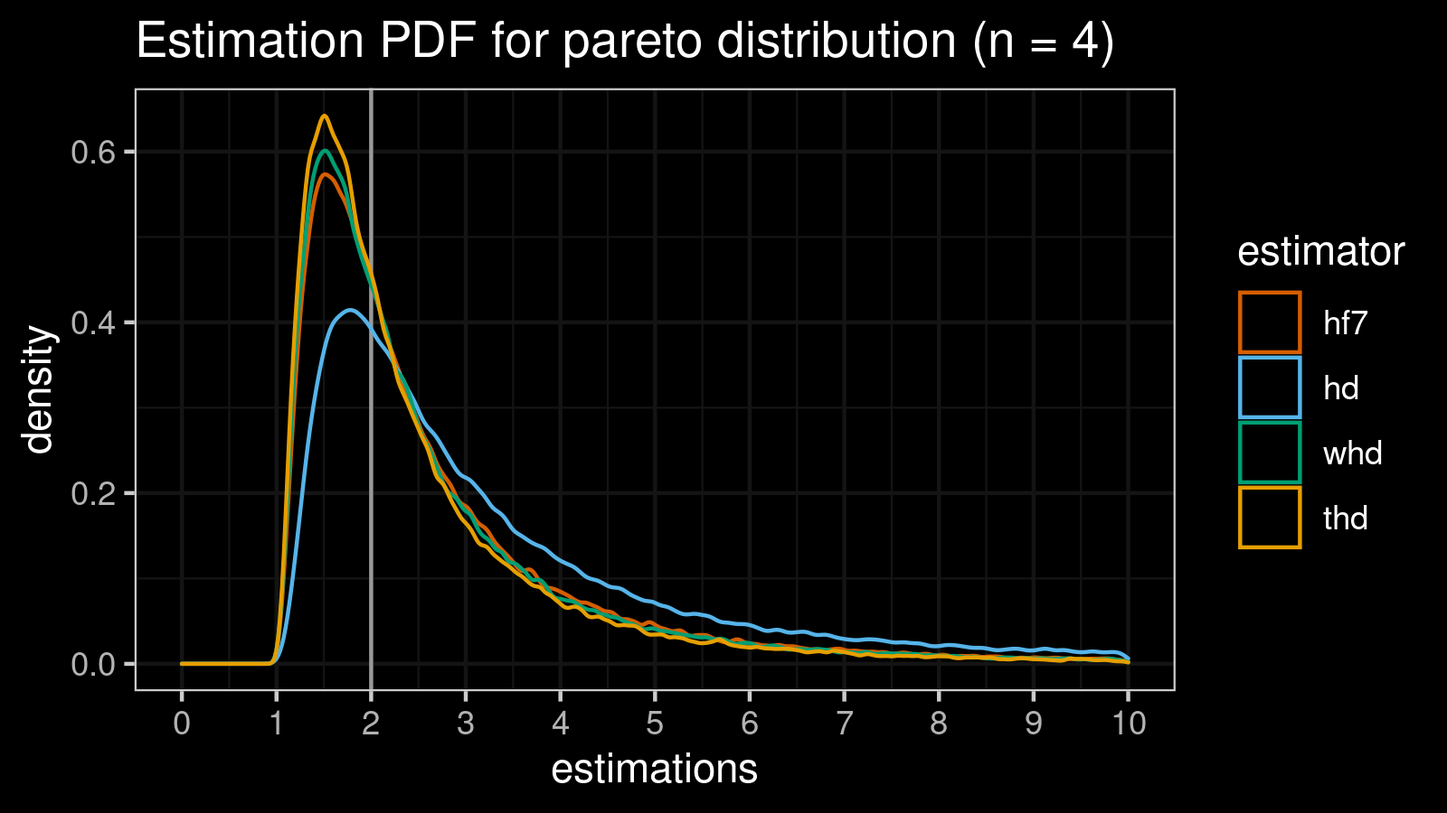
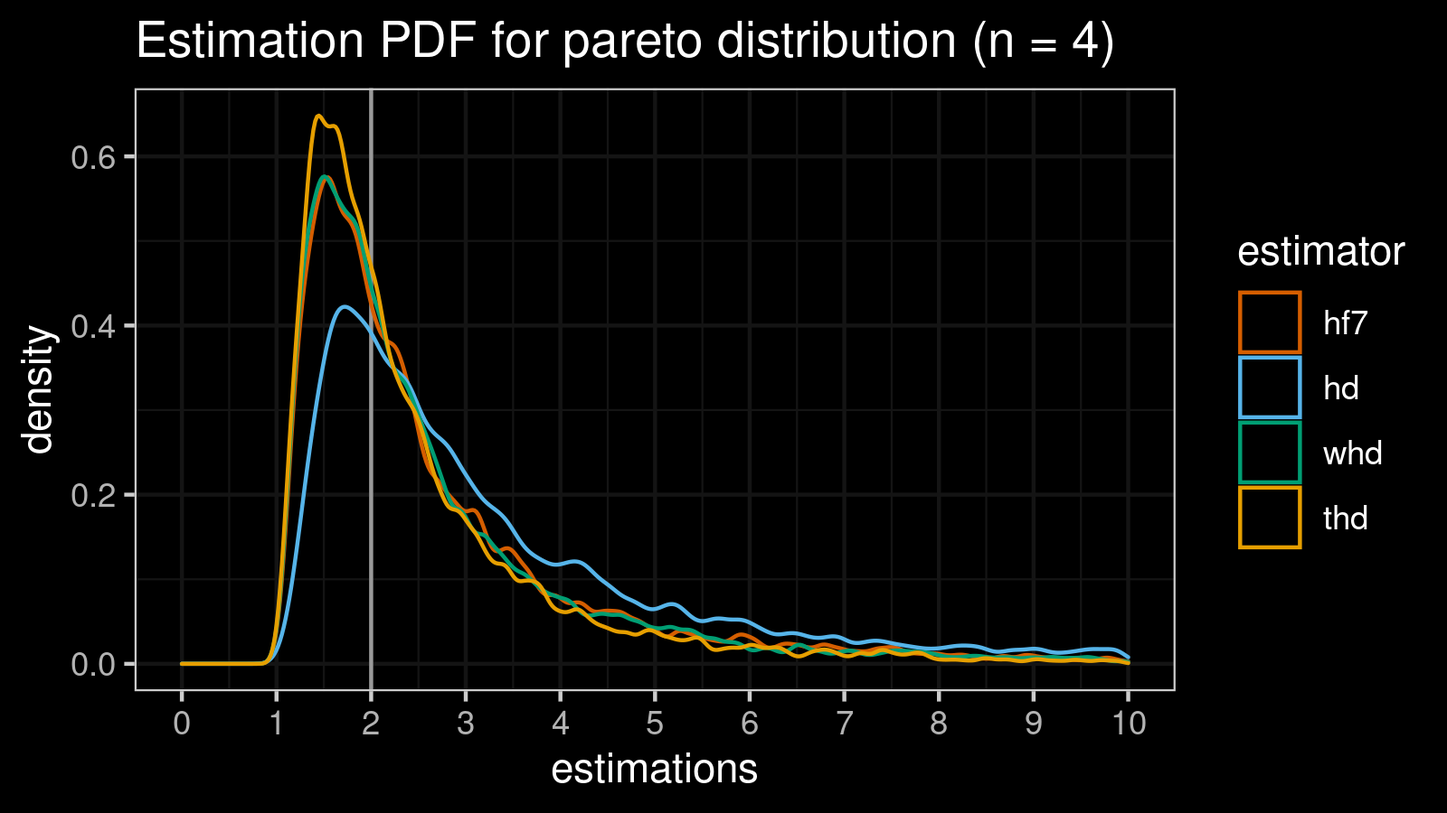
Deploying to gh-pages from  @ 09594990af768b3c2c02e1f2b73f5d6286e39294 🚀

diff --git a/posts/customized-wthdqe/index.html b/posts/customized-wthdqe/index.html
@@ -83,48 +83,49 @@ we also consider different percentiles of the absolute values of simulated error
 Also, we are going to draw the PDF of the error distributions.
 Each error distribution is based on 100'000 random samples.</p><p>In this simulation, we are going to estimate the median for the normal distribution (the true median value is <span class="math inline">\(0\)</span>)
 and for <span class="math inline">\(\textrm{Pareto}(x_m = 1, \alpha = 1)\)</span> (the true median value is <span class="math inline">\(2\)</span>).</p><h4 id=normal-distribution-n--5>Normal distribution (n = 5)</h4><p>Let&rsquo;s start with the normal distribution (which is symmetric and light-tailed) to do a dry-check of our estimators.</p><div class=row><div class=mx-auto><a href=/posts/customized-wthdqe/img/normal5-light.png target=_blank class=imgldlink alt=normal5><picture>
-<source theme=dark srcset=/posts/customized-wthdqe/img/normal5-dark.png media="(prefers-color-scheme: dark)"><source theme=light srcset=/posts/customized-wthdqe/img/normal5-light.png media="(prefers-color-scheme: light), (prefers-color-scheme: no-preference)"><img class="mx-auto d-block img-fluid" width=800 src=/posts/customized-wthdqe/img/normal5-light.png></picture></a></div></div><br><div class=highlight><pre class=chroma><code class=language-js data-lang=js> <span class=nx>estimator</span>   <span class=nx>bias</span>    <span class=nx>mse</span>    <span class=nx>p25</span>    <span class=nx>p50</span>    <span class=nx>p75</span>    <span class=nx>p90</span>    <span class=nx>p95</span>    <span class=nx>p99</span>
-       <span class=nx>hf7</span> <span class=mf>1.9989</span> <span class=mf>4.2806</span> <span class=mf>1.6406</span> <span class=mf>1.9986</span> <span class=mf>2.3571</span> <span class=mf>2.6808</span> <span class=mf>2.8774</span> <span class=mf>3.2498</span>
-        <span class=nx>hd</span> <span class=mf>1.9983</span> <span class=mf>4.2088</span> <span class=mf>1.6835</span> <span class=mf>2.0003</span> <span class=mf>2.3115</span> <span class=mf>2.5946</span> <span class=mf>2.7598</span> <span class=mf>3.0799</span>
-       <span class=nx>whd</span> <span class=mf>2.1971</span> <span class=mf>5.0761</span> <span class=mf>1.8597</span> <span class=mf>2.1935</span> <span class=mf>2.5307</span> <span class=mf>2.8371</span> <span class=mf>3.0237</span> <span class=mf>3.3723</span>
-       <span class=nx>thd</span> <span class=mf>2.2851</span> <span class=mf>5.4642</span> <span class=mf>1.9532</span> <span class=mf>2.2805</span> <span class=mf>2.6133</span> <span class=mf>2.9198</span> <span class=mf>3.1023</span> <span class=mf>3.4480</span>
-</code></pre></div><p>As we can see, <code>hf7</code> and <code>hd</code> give pretty similar results.
+<source theme=dark srcset=/posts/customized-wthdqe/img/normal5-dark.png media="(prefers-color-scheme: dark)"><source theme=light srcset=/posts/customized-wthdqe/img/normal5-light.png media="(prefers-color-scheme: light), (prefers-color-scheme: no-preference)"><img class="mx-auto d-block img-fluid" width=800 src=/posts/customized-wthdqe/img/normal5-light.png></picture></a></div></div><br><div class=highlight><pre class=chroma><code class=language-js data-lang=js> <span class=nx>estimator</span>       <span class=nx>bias</span>     <span class=nx>mse</span>     <span class=nx>p25</span>     <span class=nx>p50</span>     <span class=nx>p75</span>     <span class=nx>p90</span>     <span class=nx>p95</span>    <span class=nx>p99</span>
+       <span class=nx>hf7</span> <span class=o>-</span><span class=mf>0.0016329</span> <span class=mf>0.29153</span> <span class=mf>0.16804</span> <span class=mf>0.36103</span> <span class=mf>0.61964</span> <span class=mf>0.89926</span> <span class=mf>1.06836</span> <span class=mf>1.3611</span>
+        <span class=nx>hd</span> <span class=o>-</span><span class=mf>0.0056730</span> <span class=mf>0.21042</span> <span class=mf>0.14671</span> <span class=mf>0.31081</span> <span class=mf>0.52609</span> <span class=mf>0.74722</span> <span class=mf>0.89905</span> <span class=mf>1.1936</span>
+       <span class=nx>whd</span> <span class=o>-</span><span class=mf>0.1920940</span> <span class=mf>0.28335</span> <span class=mf>0.17178</span> <span class=mf>0.36076</span> <span class=mf>0.60780</span> <span class=mf>0.87269</span> <span class=mf>1.04119</span> <span class=mf>1.3885</span>
+       <span class=nx>thd</span> <span class=o>-</span><span class=mf>0.2879419</span> <span class=mf>0.32841</span> <span class=mf>0.18283</span> <span class=mf>0.38710</span> <span class=mf>0.65326</span> <span class=mf>0.94229</span> <span class=mf>1.14017</span> <span class=mf>1.4771</span>
+</code></pre></div><p>TODO: rewrite
+As we can see, <code>hf7</code> and <code>hd</code> give pretty similar results.
 In this particular case, <code>whd</code> and <code>thd</code> give worse results (but they are still pretty acceptable)
 It&rsquo;s an expected situation because our winsorizing/trimming strategy is &ldquo;overfitted&rdquo; to the right-skewed case
 while the actual distribution is symmetric.</p><h4 id=pareto-distribution-n--3>Pareto distribution (n = 3)</h4><p>Now it&rsquo;s time to check our estimators on the most complicated case:
 we should guess the median value of <span class="math inline">\(\textrm{Pareto}(x_m = 1, \alpha = 1)\)</span>
 based only on three elements!</p><div class=row><div class=mx-auto><a href=/posts/customized-wthdqe/img/pareto3-light.png target=_blank class=imgldlink alt=pareto3><picture>
-<source theme=dark srcset=/posts/customized-wthdqe/img/pareto3-dark.png media="(prefers-color-scheme: dark)"><source theme=light srcset=/posts/customized-wthdqe/img/pareto3-light.png media="(prefers-color-scheme: light), (prefers-color-scheme: no-preference)"><img class="mx-auto d-block img-fluid" width=800 src=/posts/customized-wthdqe/img/pareto3-light.png></picture></a></div></div><br><div class=highlight><pre class=chroma><code class=language-js data-lang=js> <span class=nx>estimator</span>   <span class=nx>bias</span>       <span class=nx>mse</span>     <span class=nx>p25</span>     <span class=nx>p50</span>     <span class=nx>p75</span>    <span class=nx>p90</span>     <span class=nx>p95</span>    <span class=nx>p99</span>
-       <span class=nx>hf7</span> <span class=mf>1.5123</span>    <span class=mf>62.215</span> <span class=mf>0.32717</span> <span class=mf>0.63312</span> <span class=mf>1.06588</span> <span class=mf>3.1005</span>  <span class=mf>5.3714</span> <span class=mf>15.368</span>
-        <span class=nx>hd</span> <span class=mf>8.9820</span> <span class=mf>53457.769</span> <span class=mf>0.37791</span> <span class=mf>0.82852</span> <span class=mf>2.94861</span> <span class=mf>8.5900</span> <span class=mf>17.2297</span> <span class=mf>82.489</span>
-       <span class=nx>whd</span> <span class=mf>1.1791</span>    <span class=mf>13.033</span> <span class=mf>0.32245</span> <span class=mf>0.61093</span> <span class=mf>0.89666</span> <span class=mf>2.2888</span>  <span class=mf>3.9940</span> <span class=mf>11.355</span>
-       <span class=nx>thd</span> <span class=mf>1.0959</span>    <span class=mf>10.468</span> <span class=mf>0.32505</span> <span class=mf>0.60616</span> <span class=mf>0.87402</span> <span class=mf>2.0557</span>  <span class=mf>3.6763</span> <span class=mf>10.116</span>
+<source theme=dark srcset=/posts/customized-wthdqe/img/pareto3-dark.png media="(prefers-color-scheme: dark)"><source theme=light srcset=/posts/customized-wthdqe/img/pareto3-light.png media="(prefers-color-scheme: light), (prefers-color-scheme: no-preference)"><img class="mx-auto d-block img-fluid" width=800 src=/posts/customized-wthdqe/img/pareto3-light.png></picture></a></div></div><br><div class=highlight><pre class=chroma><code class=language-js data-lang=js> <span class=nx>estimator</span>     <span class=nx>bias</span>        <span class=nx>mse</span>     <span class=nx>p25</span>     <span class=nx>p50</span>     <span class=nx>p75</span>    <span class=nx>p90</span>     <span class=nx>p95</span>    <span class=nx>p99</span>
+       <span class=nx>hf7</span>  <span class=mf>0.96402</span>     <span class=mf>14.093</span> <span class=mf>0.33215</span> <span class=mf>0.63298</span> <span class=mf>1.09961</span> <span class=mf>3.1286</span>  <span class=mf>5.4061</span> <span class=mf>15.677</span>
+        <span class=nx>hd</span> <span class=mf>12.75015</span> <span class=mf>175467.942</span> <span class=mf>0.37914</span> <span class=mf>0.84069</span> <span class=mf>3.02464</span> <span class=mf>8.9115</span> <span class=mf>18.5175</span> <span class=mf>90.129</span>
+       <span class=nx>whd</span>  <span class=mf>0.62981</span>     <span class=mf>14.147</span> <span class=mf>0.32802</span> <span class=mf>0.61526</span> <span class=mf>0.89961</span> <span class=mf>2.4955</span>  <span class=mf>4.2395</span> <span class=mf>11.140</span>
+       <span class=nx>thd</span>  <span class=mf>0.48012</span>     <span class=mf>23.503</span> <span class=mf>0.33245</span> <span class=mf>0.61360</span> <span class=mf>0.88120</span> <span class=mf>1.9543</span>  <span class=mf>3.4305</span>  <span class=mf>9.819</span>
 </code></pre></div><p>Expectedly, <code>hd</code> has the worst error values because of its zero breakdown point.
 Meanwhile, <code>whd</code> and <code>thd</code> have better error values than <code>hf7</code> (which is our baseline).
 They are better not only based on the &ldquo;classic&rdquo; <code>bias</code> and <code>mse</code> metrics but only based on all the percentile values.</p><p>Let&rsquo;s see what happens for higher <span class="math inline">\(n\)</span> values.</p><h4 id=pareto-distribution-n--4>Pareto distribution (n = 4)</h4><div class=row><div class=mx-auto><a href=/posts/customized-wthdqe/img/pareto4-light.png target=_blank class=imgldlink alt=pareto4><picture>
-<source theme=dark srcset=/posts/customized-wthdqe/img/pareto4-dark.png media="(prefers-color-scheme: dark)"><source theme=light srcset=/posts/customized-wthdqe/img/pareto4-light.png media="(prefers-color-scheme: light), (prefers-color-scheme: no-preference)"><img class="mx-auto d-block img-fluid" width=800 src=/posts/customized-wthdqe/img/pareto4-light.png></picture></a></div></div><br><div class=highlight><pre class=chroma><code class=language-js data-lang=js> <span class=nx>estimator</span>   <span class=nx>bias</span>        <span class=nx>mse</span>     <span class=nx>p25</span>     <span class=nx>p50</span>    <span class=nx>p75</span>    <span class=nx>p90</span>     <span class=nx>p95</span>    <span class=nx>p99</span>
-       <span class=nx>hf7</span> <span class=mf>1.3685</span>     <span class=mf>17.729</span> <span class=mf>0.28709</span> <span class=mf>0.58347</span> <span class=mf>1.2009</span> <span class=mf>3.0084</span>  <span class=mf>4.9603</span> <span class=mf>12.553</span>
-        <span class=nx>hd</span> <span class=mf>8.9832</span> <span class=mf>341193.607</span> <span class=mf>0.35421</span> <span class=mf>0.82811</span> <span class=mf>2.6347</span> <span class=mf>6.9242</span> <span class=mf>13.0648</span> <span class=mf>55.666</span>
-       <span class=nx>whd</span> <span class=mf>1.3481</span>     <span class=mf>75.375</span> <span class=mf>0.28768</span> <span class=mf>0.57450</span> <span class=mf>1.1052</span> <span class=mf>2.8478</span>  <span class=mf>4.7321</span> <span class=mf>12.135</span>
-       <span class=nx>thd</span> <span class=mf>1.2203</span>    <span class=mf>159.813</span> <span class=mf>0.27968</span> <span class=mf>0.55621</span> <span class=mf>0.9480</span> <span class=mf>2.5127</span>  <span class=mf>4.1917</span> <span class=mf>10.584</span>
+<source theme=dark srcset=/posts/customized-wthdqe/img/pareto4-dark.png media="(prefers-color-scheme: dark)"><source theme=light srcset=/posts/customized-wthdqe/img/pareto4-light.png media="(prefers-color-scheme: light), (prefers-color-scheme: no-preference)"><img class="mx-auto d-block img-fluid" width=800 src=/posts/customized-wthdqe/img/pareto4-light.png></picture></a></div></div><br><div class=highlight><pre class=chroma><code class=language-js data-lang=js> <span class=nx>estimator</span>    <span class=nx>bias</span>      <span class=nx>mse</span>     <span class=nx>p25</span>     <span class=nx>p50</span>     <span class=nx>p75</span>    <span class=nx>p90</span>     <span class=nx>p95</span>    <span class=nx>p99</span>
+       <span class=nx>hf7</span> <span class=mf>0.99630</span>   <span class=mf>13.376</span> <span class=mf>0.28927</span> <span class=mf>0.58443</span> <span class=mf>1.22370</span> <span class=mf>3.1813</span>  <span class=mf>5.1862</span> <span class=mf>12.015</span>
+        <span class=nx>hd</span> <span class=mf>4.33302</span> <span class=mf>1376.949</span> <span class=mf>0.35408</span> <span class=mf>0.81399</span> <span class=mf>2.56402</span> <span class=mf>6.8722</span> <span class=mf>12.2750</span> <span class=mf>53.703</span>
+       <span class=nx>whd</span> <span class=mf>0.95874</span>   <span class=mf>25.060</span> <span class=mf>0.28729</span> <span class=mf>0.57546</span> <span class=mf>1.12468</span> <span class=mf>2.9193</span>  <span class=mf>4.8311</span> <span class=mf>12.190</span>
+       <span class=nx>thd</span> <span class=mf>0.72518</span>   <span class=mf>11.554</span> <span class=mf>0.27726</span> <span class=mf>0.54553</span> <span class=mf>0.91749</span> <span class=mf>2.3926</span>  <span class=mf>4.0997</span> <span class=mf>10.723</span>
 </code></pre></div><h4 id=pareto-distribution-n--5>Pareto distribution (n = 5)</h4><div class=row><div class=mx-auto><a href=/posts/customized-wthdqe/img/pareto5-light.png target=_blank class=imgldlink alt=pareto5><picture>
-<source theme=dark srcset=/posts/customized-wthdqe/img/pareto5-dark.png media="(prefers-color-scheme: dark)"><source theme=light srcset=/posts/customized-wthdqe/img/pareto5-light.png media="(prefers-color-scheme: light), (prefers-color-scheme: no-preference)"><img class="mx-auto d-block img-fluid" width=800 src=/posts/customized-wthdqe/img/pareto5-light.png></picture></a></div></div><br><div class=highlight><pre class=chroma><code class=language-js data-lang=js> <span class=nx>estimator</span>    <span class=nx>bias</span>        <span class=nx>mse</span>     <span class=nx>p25</span>     <span class=nx>p50</span>     <span class=nx>p75</span>    <span class=nx>p90</span>    <span class=nx>p95</span>     <span class=nx>p99</span>
-       <span class=nx>hf7</span> <span class=mf>0.93476</span> <span class=mf>3.6081e+00</span> <span class=mf>0.26418</span> <span class=mf>0.52748</span> <span class=mf>0.85761</span> <span class=mf>2.0465</span> <span class=mf>3.2767</span>  <span class=mf>7.5615</span>
-        <span class=nx>hd</span> <span class=mf>6.89114</span> <span class=mf>9.5374e+05</span> <span class=mf>0.32004</span> <span class=mf>0.74949</span> <span class=mf>2.20399</span> <span class=mf>5.3076</span> <span class=mf>9.3283</span> <span class=mf>34.6076</span>
-       <span class=nx>whd</span> <span class=mf>0.75266</span> <span class=mf>1.9533e+00</span> <span class=mf>0.26330</span> <span class=mf>0.51288</span> <span class=mf>0.77389</span> <span class=mf>1.4601</span> <span class=mf>2.3995</span>  <span class=mf>5.3516</span>
-       <span class=nx>thd</span> <span class=mf>0.67432</span> <span class=mf>1.3032e+00</span> <span class=mf>0.26495</span> <span class=mf>0.50669</span> <span class=mf>0.75081</span> <span class=mf>1.1632</span> <span class=mf>1.9720</span>  <span class=mf>4.4307</span>
+<source theme=dark srcset=/posts/customized-wthdqe/img/pareto5-dark.png media="(prefers-color-scheme: dark)"><source theme=light srcset=/posts/customized-wthdqe/img/pareto5-light.png media="(prefers-color-scheme: light), (prefers-color-scheme: no-preference)"><img class="mx-auto d-block img-fluid" width=800 src=/posts/customized-wthdqe/img/pareto5-light.png></picture></a></div></div><br><div class=highlight><pre class=chroma><code class=language-js data-lang=js> <span class=nx>estimator</span>     <span class=nx>bias</span>        <span class=nx>mse</span>     <span class=nx>p25</span>     <span class=nx>p50</span>     <span class=nx>p75</span>    <span class=nx>p90</span>    <span class=nx>p95</span>     <span class=nx>p99</span>
+       <span class=nx>hf7</span> <span class=mf>0.504146</span>     <span class=mf>5.2105</span> <span class=mf>0.26675</span> <span class=mf>0.52613</span> <span class=mf>0.87303</span> <span class=mf>2.1065</span> <span class=mf>3.3679</span>  <span class=mf>7.2826</span>
+        <span class=nx>hd</span> <span class=mf>4.396743</span> <span class=mf>22596.2795</span> <span class=mf>0.31288</span> <span class=mf>0.74502</span> <span class=mf>2.24599</span> <span class=mf>5.3275</span> <span class=mf>9.3600</span> <span class=mf>34.9101</span>
+       <span class=nx>whd</span> <span class=mf>0.231205</span>     <span class=mf>2.1152</span> <span class=mf>0.26279</span> <span class=mf>0.50793</span> <span class=mf>0.77450</span> <span class=mf>1.4745</span> <span class=mf>2.4296</span>  <span class=mf>5.8547</span>
+       <span class=nx>thd</span> <span class=mf>0.067092</span>     <span class=mf>1.6300</span> <span class=mf>0.26268</span> <span class=mf>0.50467</span> <span class=mf>0.74328</span> <span class=mf>1.1175</span> <span class=mf>1.9506</span>  <span class=mf>4.6478</span>
 </code></pre></div><h4 id=pareto-distribution-n--6>Pareto distribution (n = 6)</h4><div class=row><div class=mx-auto><a href=/posts/customized-wthdqe/img/pareto6-light.png target=_blank class=imgldlink alt=pareto6><picture>
 <source theme=dark srcset=/posts/customized-wthdqe/img/pareto6-dark.png media="(prefers-color-scheme: dark)"><source theme=light srcset=/posts/customized-wthdqe/img/pareto6-light.png media="(prefers-color-scheme: light), (prefers-color-scheme: no-preference)"><img class="mx-auto d-block img-fluid" width=800 src=/posts/customized-wthdqe/img/pareto6-light.png></picture></a></div></div><br><div class=highlight><pre class=chroma><code class=language-js data-lang=js> <span class=nx>estimator</span>    <span class=nx>bias</span>       <span class=nx>mse</span>     <span class=nx>p25</span>     <span class=nx>p50</span>     <span class=nx>p75</span>    <span class=nx>p90</span>    <span class=nx>p95</span>     <span class=nx>p99</span>
-       <span class=nx>hf7</span> <span class=mf>0.86396</span>    <span class=mf>3.1662</span> <span class=mf>0.24138</span> <span class=mf>0.49037</span> <span class=mf>0.84813</span> <span class=mf>1.9343</span> <span class=mf>3.0090</span>  <span class=mf>6.4052</span>
-        <span class=nx>hd</span> <span class=mf>2.45124</span> <span class=mf>1146.6008</span> <span class=mf>0.29475</span> <span class=mf>0.67508</span> <span class=mf>1.83344</span> <span class=mf>4.1168</span> <span class=mf>6.7717</span> <span class=mf>21.5434</span>
-       <span class=nx>whd</span> <span class=mf>0.80034</span>    <span class=mf>2.5351</span> <span class=mf>0.23669</span> <span class=mf>0.47788</span> <span class=mf>0.78792</span> <span class=mf>1.7473</span> <span class=mf>2.7498</span>  <span class=mf>5.8945</span>
-       <span class=nx>thd</span> <span class=mf>0.70381</span>    <span class=mf>1.6713</span> <span class=mf>0.23367</span> <span class=mf>0.46480</span> <span class=mf>0.73381</span> <span class=mf>1.4345</span> <span class=mf>2.2906</span>  <span class=mf>4.9982</span>
+       <span class=nx>hf7</span> <span class=mf>0.51371</span>    <span class=mf>2.5938</span> <span class=mf>0.23690</span> <span class=mf>0.48757</span> <span class=mf>0.86252</span> <span class=mf>2.0152</span> <span class=mf>3.0778</span>  <span class=mf>6.4690</span>
+        <span class=nx>hd</span> <span class=mf>2.46898</span> <span class=mf>1195.1400</span> <span class=mf>0.29120</span> <span class=mf>0.66492</span> <span class=mf>1.78711</span> <span class=mf>4.0332</span> <span class=mf>6.8272</span> <span class=mf>20.9587</span>
+       <span class=nx>whd</span> <span class=mf>0.42000</span>    <span class=mf>2.5518</span> <span class=mf>0.23282</span> <span class=mf>0.47884</span> <span class=mf>0.79029</span> <span class=mf>1.7981</span> <span class=mf>2.8478</span>  <span class=mf>6.0907</span>
+       <span class=nx>thd</span> <span class=mf>0.25985</span>    <span class=mf>1.4532</span> <span class=mf>0.23638</span> <span class=mf>0.46981</span> <span class=mf>0.74189</span> <span class=mf>1.4778</span> <span class=mf>2.3190</span>  <span class=mf>4.9017</span>
 </code></pre></div><h4 id=pareto-distribution-n--7>Pareto distribution (n = 7)</h4><div class=row><div class=mx-auto><a href=/posts/customized-wthdqe/img/pareto7-light.png target=_blank class=imgldlink alt=pareto7><picture>
-<source theme=dark srcset=/posts/customized-wthdqe/img/pareto7-dark.png media="(prefers-color-scheme: dark)"><source theme=light srcset=/posts/customized-wthdqe/img/pareto7-light.png media="(prefers-color-scheme: light), (prefers-color-scheme: no-preference)"><img class="mx-auto d-block img-fluid" width=800 src=/posts/customized-wthdqe/img/pareto7-light.png></picture></a></div></div><br><div class=highlight><pre class=chroma><code class=language-js data-lang=js> <span class=nx>estimator</span>    <span class=nx>bias</span>        <span class=nx>mse</span>     <span class=nx>p25</span>     <span class=nx>p50</span>     <span class=nx>p75</span>     <span class=nx>p90</span>    <span class=nx>p95</span>     <span class=nx>p99</span>
-       <span class=nx>hf7</span> <span class=mf>0.72789</span> <span class=mf>1.7341e+00</span> <span class=mf>0.22666</span> <span class=mf>0.46096</span> <span class=mf>0.75719</span> <span class=mf>1.58315</span> <span class=mf>2.4422</span>  <span class=mf>5.0349</span>
-        <span class=nx>hd</span> <span class=mf>3.81677</span> <span class=mf>4.7061e+05</span> <span class=mf>0.25941</span> <span class=mf>0.58495</span> <span class=mf>1.49718</span> <span class=mf>3.19833</span> <span class=mf>4.9741</span> <span class=mf>12.9881</span>
-       <span class=nx>whd</span> <span class=mf>0.59597</span> <span class=mf>9.2458e-01</span> <span class=mf>0.22620</span> <span class=mf>0.44712</span> <span class=mf>0.68831</span> <span class=mf>1.09442</span> <span class=mf>1.7404</span>  <span class=mf>3.6767</span>
-       <span class=nx>thd</span> <span class=mf>0.54333</span> <span class=mf>6.5777e-01</span> <span class=mf>0.23242</span> <span class=mf>0.44939</span> <span class=mf>0.67056</span> <span class=mf>0.88692</span> <span class=mf>1.3906</span>  <span class=mf>2.9339</span>
+<source theme=dark srcset=/posts/customized-wthdqe/img/pareto7-dark.png media="(prefers-color-scheme: dark)"><source theme=light srcset=/posts/customized-wthdqe/img/pareto7-light.png media="(prefers-color-scheme: light), (prefers-color-scheme: no-preference)"><img class="mx-auto d-block img-fluid" width=800 src=/posts/customized-wthdqe/img/pareto7-light.png></picture></a></div></div><br><div class=highlight><pre class=chroma><code class=language-js data-lang=js> <span class=nx>estimator</span>      <span class=nx>bias</span>        <span class=nx>mse</span>     <span class=nx>p25</span>     <span class=nx>p50</span>     <span class=nx>p75</span>    <span class=nx>p90</span>    <span class=nx>p95</span>     <span class=nx>p99</span>
+       <span class=nx>hf7</span>  <span class=mf>0.337121</span>    <span class=mf>1.85904</span> <span class=mf>0.23519</span> <span class=mf>0.46158</span> <span class=mf>0.75627</span> <span class=mf>1.5838</span> <span class=mf>2.4504</span>  <span class=mf>5.3569</span>
+        <span class=nx>hd</span>  <span class=mf>1.975857</span> <span class=mf>1989.76770</span> <span class=mf>0.26722</span> <span class=mf>0.60452</span> <span class=mf>1.52104</span> <span class=mf>3.2602</span> <span class=mf>5.0468</span> <span class=mf>13.5435</span>
+       <span class=nx>whd</span>  <span class=mf>0.082059</span>    <span class=mf>0.88772</span> <span class=mf>0.23247</span> <span class=mf>0.44718</span> <span class=mf>0.68616</span> <span class=mf>1.0932</span> <span class=mf>1.7480</span>  <span class=mf>3.8571</span>
+       <span class=nx>thd</span> <span class=o>-</span><span class=mf>0.039714</span>    <span class=mf>0.68217</span> <span class=mf>0.23089</span> <span class=mf>0.45429</span> <span class=mf>0.67313</span> <span class=mf>0.8878</span> <span class=mf>1.3837</span>  <span class=mf>3.0663</span>
 </code></pre></div><h3 id=conclusion>Conclusion</h3><p>In this post, we performed a numerical simulation that compared the statistical efficiency
 of the median estimation on small samples from right-skewed heavy-tailed distributions.
 We compared four quantile estimators:

diff --git a/posts/weighted-quantiles/index.html b/posts/weighted-quantiles/index.html
@@ -142,11 +142,29 @@ Here are the corresponding PDF and CDF plots:</p><div class=row><div class=mx-au
 It means that <span class="math inline">\(q_{0.25} = x_2\)</span>, which satisfies our expectations (the first quartile of a sample with five elements is the second element).</p></div><ul><li>Assuming <span class="math inline">\(h\)</span> is a non-integer number.<br>For <span class="math inline">\(i < \lfloor h \rfloor\)</span>, we have <span class="math inline">\(W_{n,i} = 0 - 0 = 0\)</span>.<br>For <span class="math inline">\(i = \lfloor h \rfloor\)</span>, we have <span class="math inline">\(W_{n,i} = (\lfloor h \rfloor/n \cdot n - h + 1) - 0 = \lfloor h \rfloor - h + 1\)</span>.<br>For <span class="math inline">\(i = \lfloor h \rfloor + 1\)</span>, we have <span class="math inline">\(W_{n,i} = 1 - (\lfloor h \rfloor/n \cdot n - h + 1) = h - \lfloor h \rfloor \)</span>.<br>For <span class="math inline">\(i > \lfloor h \rfloor + 1\)</span>, we have <span class="math inline">\(W_{n,i} = 1 - 1 = 0\)</span>.<br>Thus, <span class="math inline">\(q_p = \sum_{i=1}^{n} W_{n,i} \cdot x_i = (\lfloor h \rfloor - h + 1) x_{\lfloor h \rfloor} + (h - \lfloor h \rfloor) x_{\lfloor h \rfloor + 1} = x_{\lfloor h \rfloor} + (h - \lfloor h \rfloor) (x_{\lfloor h \rfloor + 1} - x_{\lfloor h \rfloor})\)</span>.</li></ul><div class=block-example><b><span class=block-example-title></span></b><br><p><em>Input:</em> <span class="math inline">\(n = 5\)</span>, <span class="math inline">\(p = 0.25\)</span>.<br>We have <span class="math inline">\(h = 2.4\)</span> which is a non-integer number.
 Thus, the first quartile estimation is a linear combination of <span class="math inline">\(x_2\)</span> and <span class="math inline">\(x_3\)</span>:</p><div class=row><div class=mx-auto><a href=/posts/weighted-quantiles/img/type7-3-light.svg target=_blank class=imgldlink alt=type7-3><picture>
 <source theme=dark srcset=/posts/weighted-quantiles/img/type7-3-dark.svg media="(prefers-color-scheme: dark)"><source theme=light srcset=/posts/weighted-quantiles/img/type7-3-light.svg media="(prefers-color-scheme: light), (prefers-color-scheme: no-preference)"><img class="mx-auto d-block img-fluid" width=400 src=/posts/weighted-quantiles/img/type7-3-light.svg></picture></a></div></div><br></div><p>As we can see, the suggested <span class="math inline">\(F_7\)</span> perfectly matches the non-weighted case.
-Using equations from the previous section, we can get the weighted case.</p><div class=block-example><b><span class=block-example-title></span></b><br><em>Input:</em> <span class="math inline">\(n = 5\)</span>, <span class="math inline">\(x = \{ 1, 2, 3, 4, 5\}\)</span>, <span class="math inline">\(w = \{ 1, 0, 1, 1, 1 \}\)</span>, <span class="math inline">\(p = 0.25\)</span>.<br>Here we have:<br><span class="math inline">\(h = p(n - 1) + 1 = 2,\)</span><br><span class="math inline">\((h - 1) / n = 0.2, \quad h / n = 0.4,\)</span><br><span class="math inline">\(F_7(u) = \left\{ \begin{array}{lcrcllr} 0 & \textrm{for} &     &      & u  & < & 0.2, \\ 5u-1 & \textrm{for} & 0.2 & \leq & u  & \leq & 0.4, \\ 1    & \textrm{for} & 0.4 & <    & u, & & \end{array} \right.\)</span><br><span class="math inline">\(s_0(w) = 0, \; s_1(w) = 1, \; s_2(w) = 1, \; s_3(w) = 2, \; s_4(w) = 3, \; s_5(w) = 4,\)</span><br><span class="math inline">\(\begin{array}{ll} l^*_1 = s_0(w) / s_5(w) = 0.00, & r^*_1 = s_1(w) / s_5(w) = 0.25,\\ l^*_2 = s_1(w) / s_5(w) = 0.25, & r^*_2 = s_2(w) / s_5(w) = 0.25,\\ l^*_3 = s_2(w) / s_5(w) = 0.25, & r^*_3 = s_3(w) / s_5(w) = 0.50,\\ l^*_4 = s_3(w) / s_5(w) = 0.50, & r^*_4 = s_4(w) / s_5(w) = 0.75,\\ l^*_5 = s_4(w) / s_5(w) = 0.75, & r^*_5 = s_5(w) / s_5(w) = 1.00,\\ \end{array}\)</span><br><span class="math inline">\(W^*_{5,1} = F_7(r_1) - F_7(l_1) = F_7(0.25) - F_7(0.00) = 0.25 - 0.25 = 0.25,\)</span><br><span class="math inline">\(W^*_{5,2} = F_7(r_2) - F_7(l_2) = F_7(0.25) - F_7(0.25) = 0.25 - 0.25 = 0.00,\)</span><br><span class="math inline">\(W^*_{5,3} = F_7(r_3) - F_7(l_3) = F_7(0.50) - F_7(0.25) = 1.00 - 0.25 = 0.75,\)</span><br><span class="math inline">\(W^*_{5,4} = F_7(r_4) - F_7(l_4) = F_7(0.75) - F_7(0.50) = 1.00 - 1.00 = 0.00,\)</span><br><span class="math inline">\(W^*_{5,5} = F_7(r_5) - F_7(l_5) = F_7(1.00) - F_7(0.75) = 1.00 - 1.00 = 0.00,\)</span><br><span class="math inline">\(q^*_{0.25} = W^*_{5,1}x_1 + W^*_{5,2}x_2 + W^*_{5,3}x_3 + W^*_{5,4}x_4 + W^*_{5,5}x_5 = 0.25x_1 + 0.75x_3 = 0.25 + 2.25 = 2.5.\)</span></div><h3 id=weighted-quantiles-in-action>Weighted quantiles in action</h3><p>Let&rsquo;s go back to the original problem with performance measurements and quantile evaluations.
+Using equations from the previous section, we can get the weighted case.</p><div class=block-example><b><span class=block-example-title></span></b><br><em>Input:</em> <span class="math inline">\(n = 5\)</span>, <span class="math inline">\(x = \{ 1, 2, 3, 4, 5\}\)</span>, <span class="math inline">\(w = \{ 1, 0, 1, 1, 1 \}\)</span>, <span class="math inline">\(p = 0.25\)</span>.<br>Here we have:<br><span class="math inline">\(h = p(n - 1) + 1 = 2,\)</span><br><span class="math inline">\((h - 1) / n = 0.2, \quad h / n = 0.4,\)</span><br><span class="math inline">\(F_7(u) = \left\{ \begin{array}{lcrcllr} 0 & \textrm{for} &     &      & u  & < & 0.2, \\ 5u-1 & \textrm{for} & 0.2 & \leq & u  & \leq & 0.4, \\ 1    & \textrm{for} & 0.4 & <    & u, & & \end{array} \right.\)</span><br><span class="math inline">\(s_0(w) = 0, \; s_1(w) = 1, \; s_2(w) = 1, \; s_3(w) = 2, \; s_4(w) = 3, \; s_5(w) = 4,\)</span><br><span class="math inline">\(\begin{array}{ll} l^*_1 = s_0(w) / s_5(w) = 0.00, & r^*_1 = s_1(w) / s_5(w) = 0.25,\\ l^*_2 = s_1(w) / s_5(w) = 0.25, & r^*_2 = s_2(w) / s_5(w) = 0.25,\\ l^*_3 = s_2(w) / s_5(w) = 0.25, & r^*_3 = s_3(w) / s_5(w) = 0.50,\\ l^*_4 = s_3(w) / s_5(w) = 0.50, & r^*_4 = s_4(w) / s_5(w) = 0.75,\\ l^*_5 = s_4(w) / s_5(w) = 0.75, & r^*_5 = s_5(w) / s_5(w) = 1.00,\\ \end{array}\)</span><br><span class="math inline">\(W^*_{5,1} = F_7(r_1) - F_7(l_1) = F_7(0.25) - F_7(0.00) = 0.25 - 0.25 = 0.25,\)</span><br><span class="math inline">\(W^*_{5,2} = F_7(r_2) - F_7(l_2) = F_7(0.25) - F_7(0.25) = 0.25 - 0.25 = 0.00,\)</span><br><span class="math inline">\(W^*_{5,3} = F_7(r_3) - F_7(l_3) = F_7(0.50) - F_7(0.25) = 1.00 - 0.25 = 0.75,\)</span><br><span class="math inline">\(W^*_{5,4} = F_7(r_4) - F_7(l_4) = F_7(0.75) - F_7(0.50) = 1.00 - 1.00 = 0.00,\)</span><br><span class="math inline">\(W^*_{5,5} = F_7(r_5) - F_7(l_5) = F_7(1.00) - F_7(0.75) = 1.00 - 1.00 = 0.00,\)</span><br><span class="math inline">\(q^*_{0.25} = W^*_{5,1}x_1 + W^*_{5,2}x_2 + W^*_{5,3}x_3 + W^*_{5,4}x_4 + W^*_{5,5}x_5 = 0.25x_1 + 0.75x_3 = 0.25 + 2.25 = 2.5.\)</span></div><h3 id=weighted-type-4-9-quantile-estimators>Weighted Type 4-9 quantile estimators</h3><p>Although the Type 7 is one of the most popular quantile estimators nowadays,
+the above approach can be applied to any of Type 4-9 estimators.
+All of them are based on the same interpolation formula:</p><p><span class="math display">\[q_p = x_{\lfloor h \rfloor} + (h - \lfloor h \rfloor) (x_{\lfloor h \rfloor + 1} - x_{\lfloor h \rfloor}).
+\]</span></p><p>The only difference between them is how we choose the <span class="math inline">\(h\)</span> value:</p><table><thead><tr><th align=left>Type</th><th align=left>h</th></tr></thead><tbody><tr><td align=left>4</td><td align=left><span class="math inline">\(np\)</span></td></tr><tr><td align=left>5</td><td align=left><span class="math inline">\(np+1/2\)</span></td></tr><tr><td align=left>6</td><td align=left><span class="math inline">\((n+1)p\)</span></td></tr><tr><td align=left>7</td><td align=left><span class="math inline">\((n-1)p+1\)</span></td></tr><tr><td align=left>8</td><td align=left><span class="math inline">\((n+1/3)p+1/3\)</span></td></tr><tr><td align=left>9</td><td align=left><span class="math inline">\((n+1/4)/p+3/8\)</span></td></tr></tbody></table><p>An important note: if the obtained <span class="math inline">\(h\)</span> value is less than <span class="math inline">\(1\)</span> or larger than <span class="math inline">\(n\)</span>,
+it should be clamped to the <span class="math inline">\([1;n]\)</span> interval.
+Once we get the <span class="math inline">\(h\)</span> value, we can use the same PDF/CDF functions that we used for the Type 7 quantile estimator:</p><p><span class="math display">\[F_k(u) = \left\{
+\begin{array}{lcrcllr}
+0 & \textrm{for} &         &      & u & <    & (h-1)/n, \\
+un-h+1 & \textrm{for} & (h-1)/n & \leq & u  & \leq & h/n, \\
+1 & \textrm{for} & h/n     & <    & u. &      &
+\end{array}
+\right.
+\]</span></p><p><span class="math display">\[f_k(u) = F'_k(u) = \left\{
+\begin{array}{lcrcllr}
+0 & \textrm{for} &         &      & u & <    & (h-1)/n, \\
+n      & \textrm{for} & (h-1)/n & \leq & u  & \leq & h/n, \\
+0 & \textrm{for} & h/n     & <    & u. &      &
+\end{array}
+\right.
+\]</span></p><h3 id=weighted-quantiles-in-action-exponential-smoothing>Weighted quantiles in action (exponential smoothing)</h3><p>Let&rsquo;s go back to the original problem with performance measurements and quantile evaluations.
 We already know how to calculate the weighted quantiles.
 All we need now is the weight values.
-For problems like this, it&rsquo;s pretty convenient to use the <a href=https://en.wikipedia.org/wiki/Exponential_decay>exponential decay</a> law
-(this approach is inspired by the <a href=https://en.wikipedia.org/wiki/Radioactive_decay>radioactive decay</a>):</p><p><span class="math display">\[\omega(t) = 2^{-t/t_{1/2}}
+For problems like this, it&rsquo;s pretty convenient to use the <a href=https://en.wikipedia.org/wiki/Exponential_decay>exponential decay</a> law:</p><p><span class="math display">\[\omega(t) = 2^{-t/t_{1/2}}
 \]</span></p><p>where <span class="math inline">\(t_{1/2}\)</span> is the <a href=https://en.wikipedia.org/wiki/Half-life>half-life</a>.
 This value describes the period of time required for the current weight to reduce to half of its original value.
 Thus, we have</p><p><span class="math display">\[\omega(0) = 1, \quad \omega(t_{1/2}) = 0.5, \quad \omega(2t_{1/2}) = 0.25, \quad \omega(3t_{1/2}) = 0.125, \ldots
@@ -158,7 +176,10 @@ and so on.</p><p>Originally, we had the following pictures with daily measuremen
 <source theme=dark srcset=/posts/weighted-quantiles/img/moving1-dark.svg media="(prefers-color-scheme: dark)"><source theme=light srcset=/posts/weighted-quantiles/img/moving1-light.svg media="(prefers-color-scheme: light), (prefers-color-scheme: no-preference)"><img class="mx-auto d-block img-fluid" width=400 src=/posts/weighted-quantiles/img/moving1-light.svg></picture></a></div></div><br><p>Let&rsquo;s say we want to get a daily estimation for the actual median value.
 To do that, we have to apply the following procedure after each day:</p><ul><li>Assign weights <span class="math inline">\(w_i\)</span> to existing measurements <span class="math inline">\(x_i\)</span> according to the exponential decay law.</li><li>Sort the pairs <span class="math inline">\((x_i, w_i)\)</span> by the measurement values <span class="math inline">\(x_i\)</span> because our equations require a sorted sample.</li><li>Apply the Harrell-Davis quantile estimator (because it&rsquo;s an efficient estimator) to get the median estimation (<span class="math inline">\(q_{0.5}\)</span>).</li></ul><p>Here is an illustration of how it works in practice (for this example, <span class="math inline">\(t_{1/2} = 5\)</span>).</p><div class=row><div class=mx-auto><a href=/posts/weighted-quantiles/img/moving2-light.svg target=_blank class=imgldlink alt=moving2><picture>
 <source theme=dark srcset=/posts/weighted-quantiles/img/moving2-dark.svg media="(prefers-color-scheme: dark)"><source theme=light srcset=/posts/weighted-quantiles/img/moving2-light.svg media="(prefers-color-scheme: light), (prefers-color-scheme: no-preference)"><img class="mx-auto d-block img-fluid" width=400 src=/posts/weighted-quantiles/img/moving2-light.svg></picture></a></div></div><br><p>Of course, we can apply this procedure not only to the median, but to any other quantile and get a daily estimation of the &ldquo;actual&rdquo; distribution.
-It may be &ldquo;spoiled&rdquo; after change point, but it will be &ldquo;recovered&rdquo; after a several days.</p><p>This approach can be improved with the help of change point detection (e.g., using <a href=https://aakinshin.net/posts/edpelt/>EdPelt</a> or <a href=https://github.com/AndreyAkinshin/perfolizer#changepoint-detection>RqqPelt</a>): we can just drop the values before the last change point.
+It may be &ldquo;spoiled&rdquo; after change point, but it will be &ldquo;recovered&rdquo; after several days.
+This technique is known as the <a href=https://aakinshin.net/posts/quantile-exponential-smoothing/>quantile exponential smoothing</a>.
+The same idea can be also applied to different measures of dispersion,
+so we can use the <a href=https://aakinshin.net/posts/dispersion-exponential-smoothing/>dispersion exponential smoothing</a>.</p><p>This approach can be improved with the help of change point detection (e.g., using <a href=https://aakinshin.net/posts/edpelt/>EdPelt</a> or <a href=https://github.com/AndreyAkinshin/perfolizer#changepoint-detection>RqqPelt</a>): we can just drop the values before the last change point.
 However, the weighted approach improves our estimations in this case as well because some change points may not be correctly detected, or measurements may change slowly without explicit change points.</p><h3 id=reference-implementation>Reference implementation</h3><p>If you use R, here are functions that you can use in your scripts:</p><div class=highlight><pre class=chroma><code class=language-r data-lang=r><span class=c1># Weighted generic quantile estimator</span>
 <span class=n>wquantile.generic</span> <span class=o>&lt;-</span> <span class=nf>function</span><span class=p>(</span><span class=n>x</span><span class=p>,</span> <span class=n>probs</span><span class=p>,</span> <span class=n>cdf.gen</span><span class=p>,</span> <span class=n>weights</span> <span class=o>=</span> <span class=kc>NA</span><span class=p>)</span> <span class=p>{</span>
   <span class=n>n</span> <span class=o>&lt;-</span> <span class=nf>length</span><span class=p>(</span><span class=n>x</span><span class=p>)</span>
@@ -199,7 +220,7 @@ However, the weighted approach improves our estimations in this case as well bec
   <span class=nf>wquantile.generic</span><span class=p>(</span><span class=n>x</span><span class=p>,</span> <span class=n>probs</span><span class=p>,</span> <span class=n>cdf.gen</span><span class=p>,</span> <span class=n>weights</span><span class=p>)</span>
 <span class=p>}</span>
 </code></pre></div><p>If you use C#, you can take an implementation from
-the latest nightly version (0.3.0-nightly.72+) of <a href=https://github.com/AndreyAkinshin/perfolizer>Perfolizer</a>
+the latest nightly version (0.3.0-nightly.96+) of <a href=https://github.com/AndreyAkinshin/perfolizer>Perfolizer</a>
 (you need <code>HarrellDavisQuantileEstimator</code> and <code>SimpleQuantileEstimator</code>).</p><h3 id=conclusion>Conclusion</h3><p>In this post, we derived equations for weighted quantile, including a generic CDF-based approach and specific formulas for the Harrell-Davis and Type 7 quantile estimators.
 This technique has various applications, and we showed how to apply it to estimate quantiles for a time series using exponential decay.</p><p>The suggested equations present my own view on the concept of weighted quantiles since it&rsquo;s not a popular topic, and I didn&rsquo;t manage to find any good explanations.
 If you know any papers/posts/implementations with the same or other approaches, I will appreciate if you share it with me.</p><h3 id=references>References</h3><ul><li><b id=Harrell1982>[Harrell1982]</b><br>Harrell, F.E. and Davis, C.E., 1982. A new distribution-free quantile estimator.

diff --git a/posts/p2-quantile-estimator/index.html b/posts/p2-quantile-estimator/index.html
@@ -98,7 +98,7 @@ the latest nightly version (0.3.0-nightly.64+) of <a href=https://github.com/And
     <span class=k>private</span> <span class=k>readonly</span> <span class=kt>double</span><span class=p>[]</span> <span class=n>q</span> <span class=p>=</span> <span class=k>new</span> <span class=kt>double</span><span class=p>[</span><span class=m>5</span><span class=p>];</span> <span class=c1>// marker heights
 </span><span class=c1></span>    <span class=k>private</span> <span class=kt>int</span> <span class=n>count</span><span class=p>;</span>
 
-    <span class=k>public</span> <span class=n>P2QuantileEstimator</span><span class=p>(</span><span class=kt>double</span> <span class=n>p</span><span class=p>)</span>
+    <span class=k>public</span> <span class=n>P2QuantileEstimator</span><span class=p>(</span><span class=kt>double</span> <span class=n>probability</span><span class=p>)</span>
     <span class=p>{</span>
         <span class=n>p</span> <span class=p>=</span> <span class=n>probability</span><span class=p>;</span>
     <span class=p>}</span>
